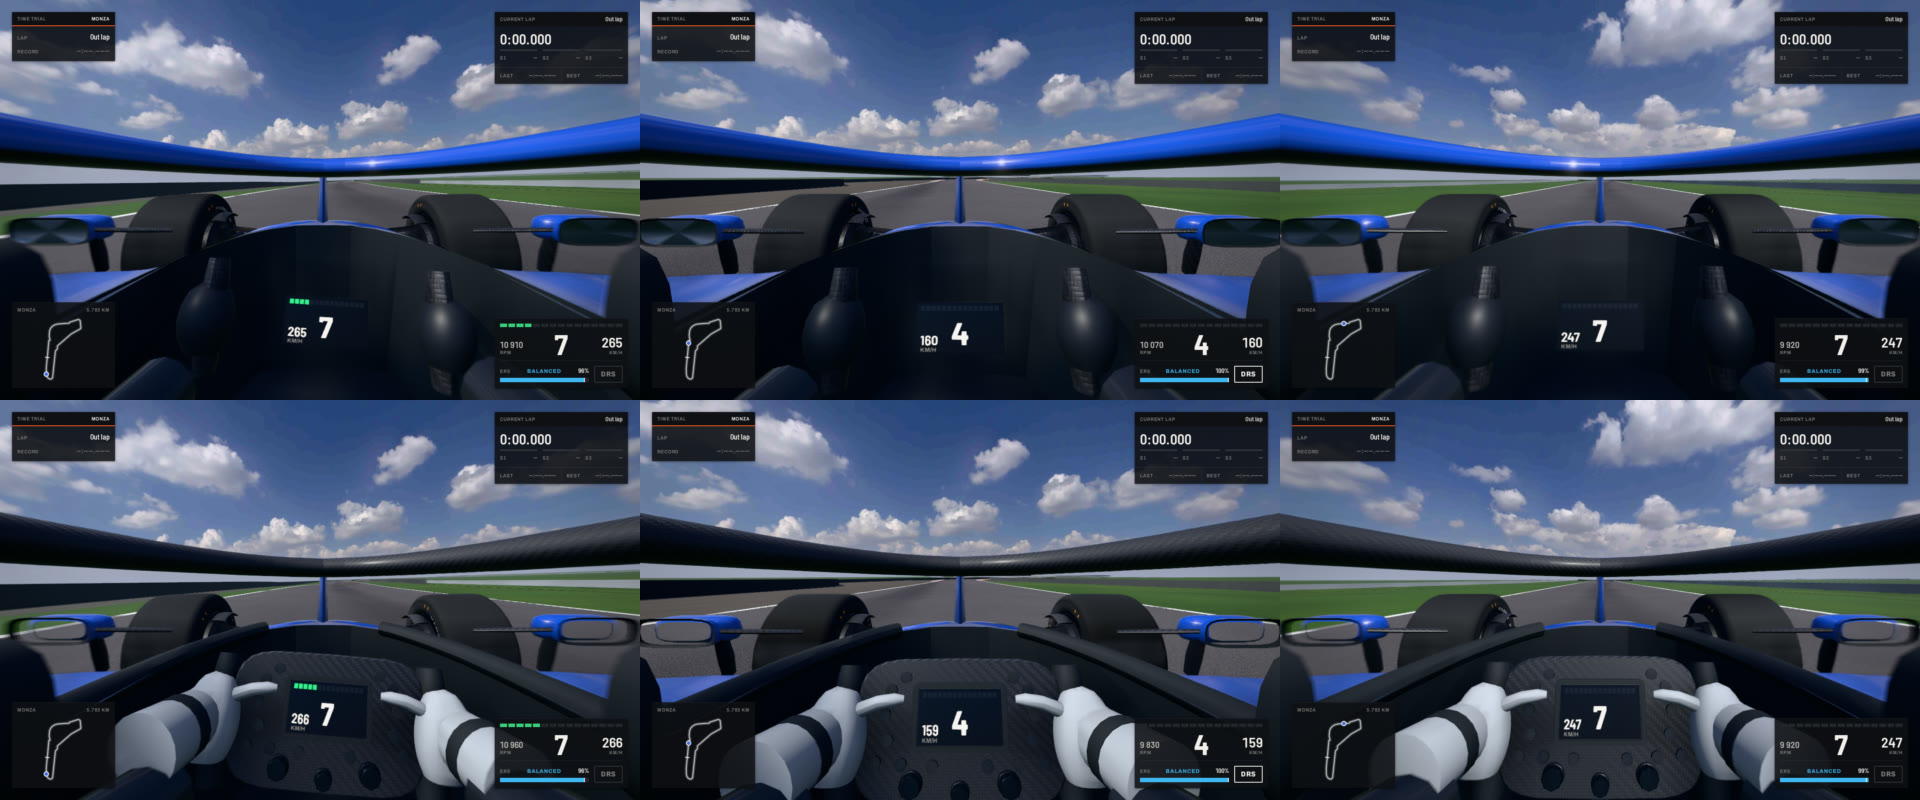
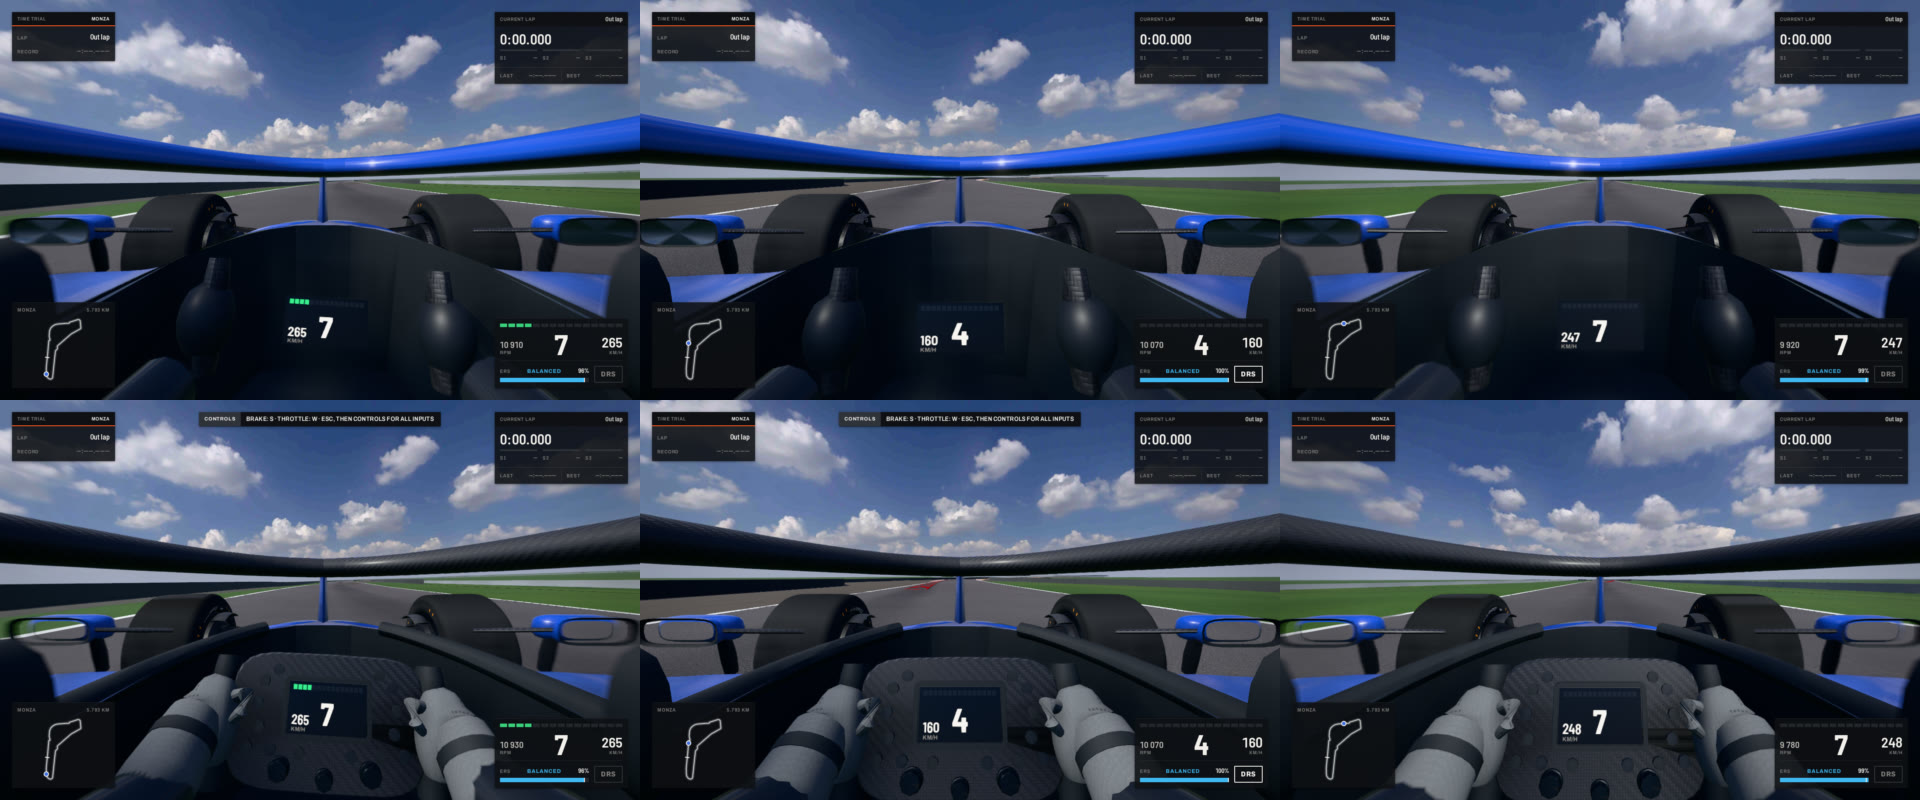
Refresh the cockpit before/after evidence after the review fixes

diff --git a/docs/evidence/m2-cockpit/README.md b/docs/evidence/m2-cockpit/README.md
@@ -26,7 +26,11 @@ What changed, from the driver's seat:
 - Carbon: 2x2 twill with 3 mm tows (was 6 mm) and fibre anisotropy along the tows
   (`KHR_materials_anisotropy` with a direction texture); presets without clear coat drop it.
 
+After the first review (PR #33): the gauntlets are lofted from the actual sleeve ends, with their
+closed caps 20 mm inside the sleeve so no cap shows; the thumbs curl round the grip; the faceplate
+carries printed control legends and rotary index marks, and the gloves a suede texture with seams
+and sparse wear, all inside the existing triangle budgets. The after rows above are from 6151b9b.
+
 Known gaps: on the phone the driver cluster covers the wheel face (a HUD layout choice; the
 wheel's buttons are left off the Mobile level for that reason). On Mobile, without the sheen,
-the twill on the halo reads as a coarse zigzag at that distance. Belts are the existing straps;
-no buckle or wear decals yet.
+the twill on the halo reads as a coarse zigzag at that distance. Belts are the existing straps; no buckle yet. These Mobile items are tracked in `docs/STATUS.md`.
